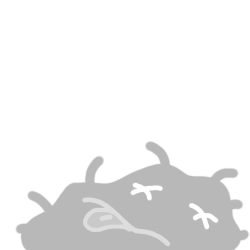
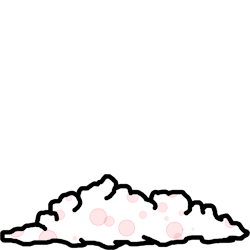
fix the fix wich was broken + enemy pile sprites

Changed region(s): [[0.0, 0.56, 1.0, 1.0]]

diff --git a/Assets/EntityManager.cs b/Assets/EntityManager.cs
@@ -38,11 +38,7 @@ public class EntityManager : MonoBehaviour
     {
         enemySpawnTimer -= Time.deltaTime;
 
-        if (this._roomManager.MyDoctorType != DoctorType.CombatDoctor || enemySpawnTimer > 0 || !this._enemyManager.CanSpawn)
-        {
-            enemySpawnTimer = enemySpawnInterval;
-            return;
-        }
+        if (this._roomManager.MyDoctorType != DoctorType.CombatDoctor || enemySpawnTimer > 0 || !this._enemyManager.CanSpawn) { return; }
         
         randomDirection = new Vector3(Random.Range(-1f, 1f), Random.Range(-1f, 1f), 0);
         if (Physics.Raycast(this.transform.position, randomDirection, out hitInfo, 500))
